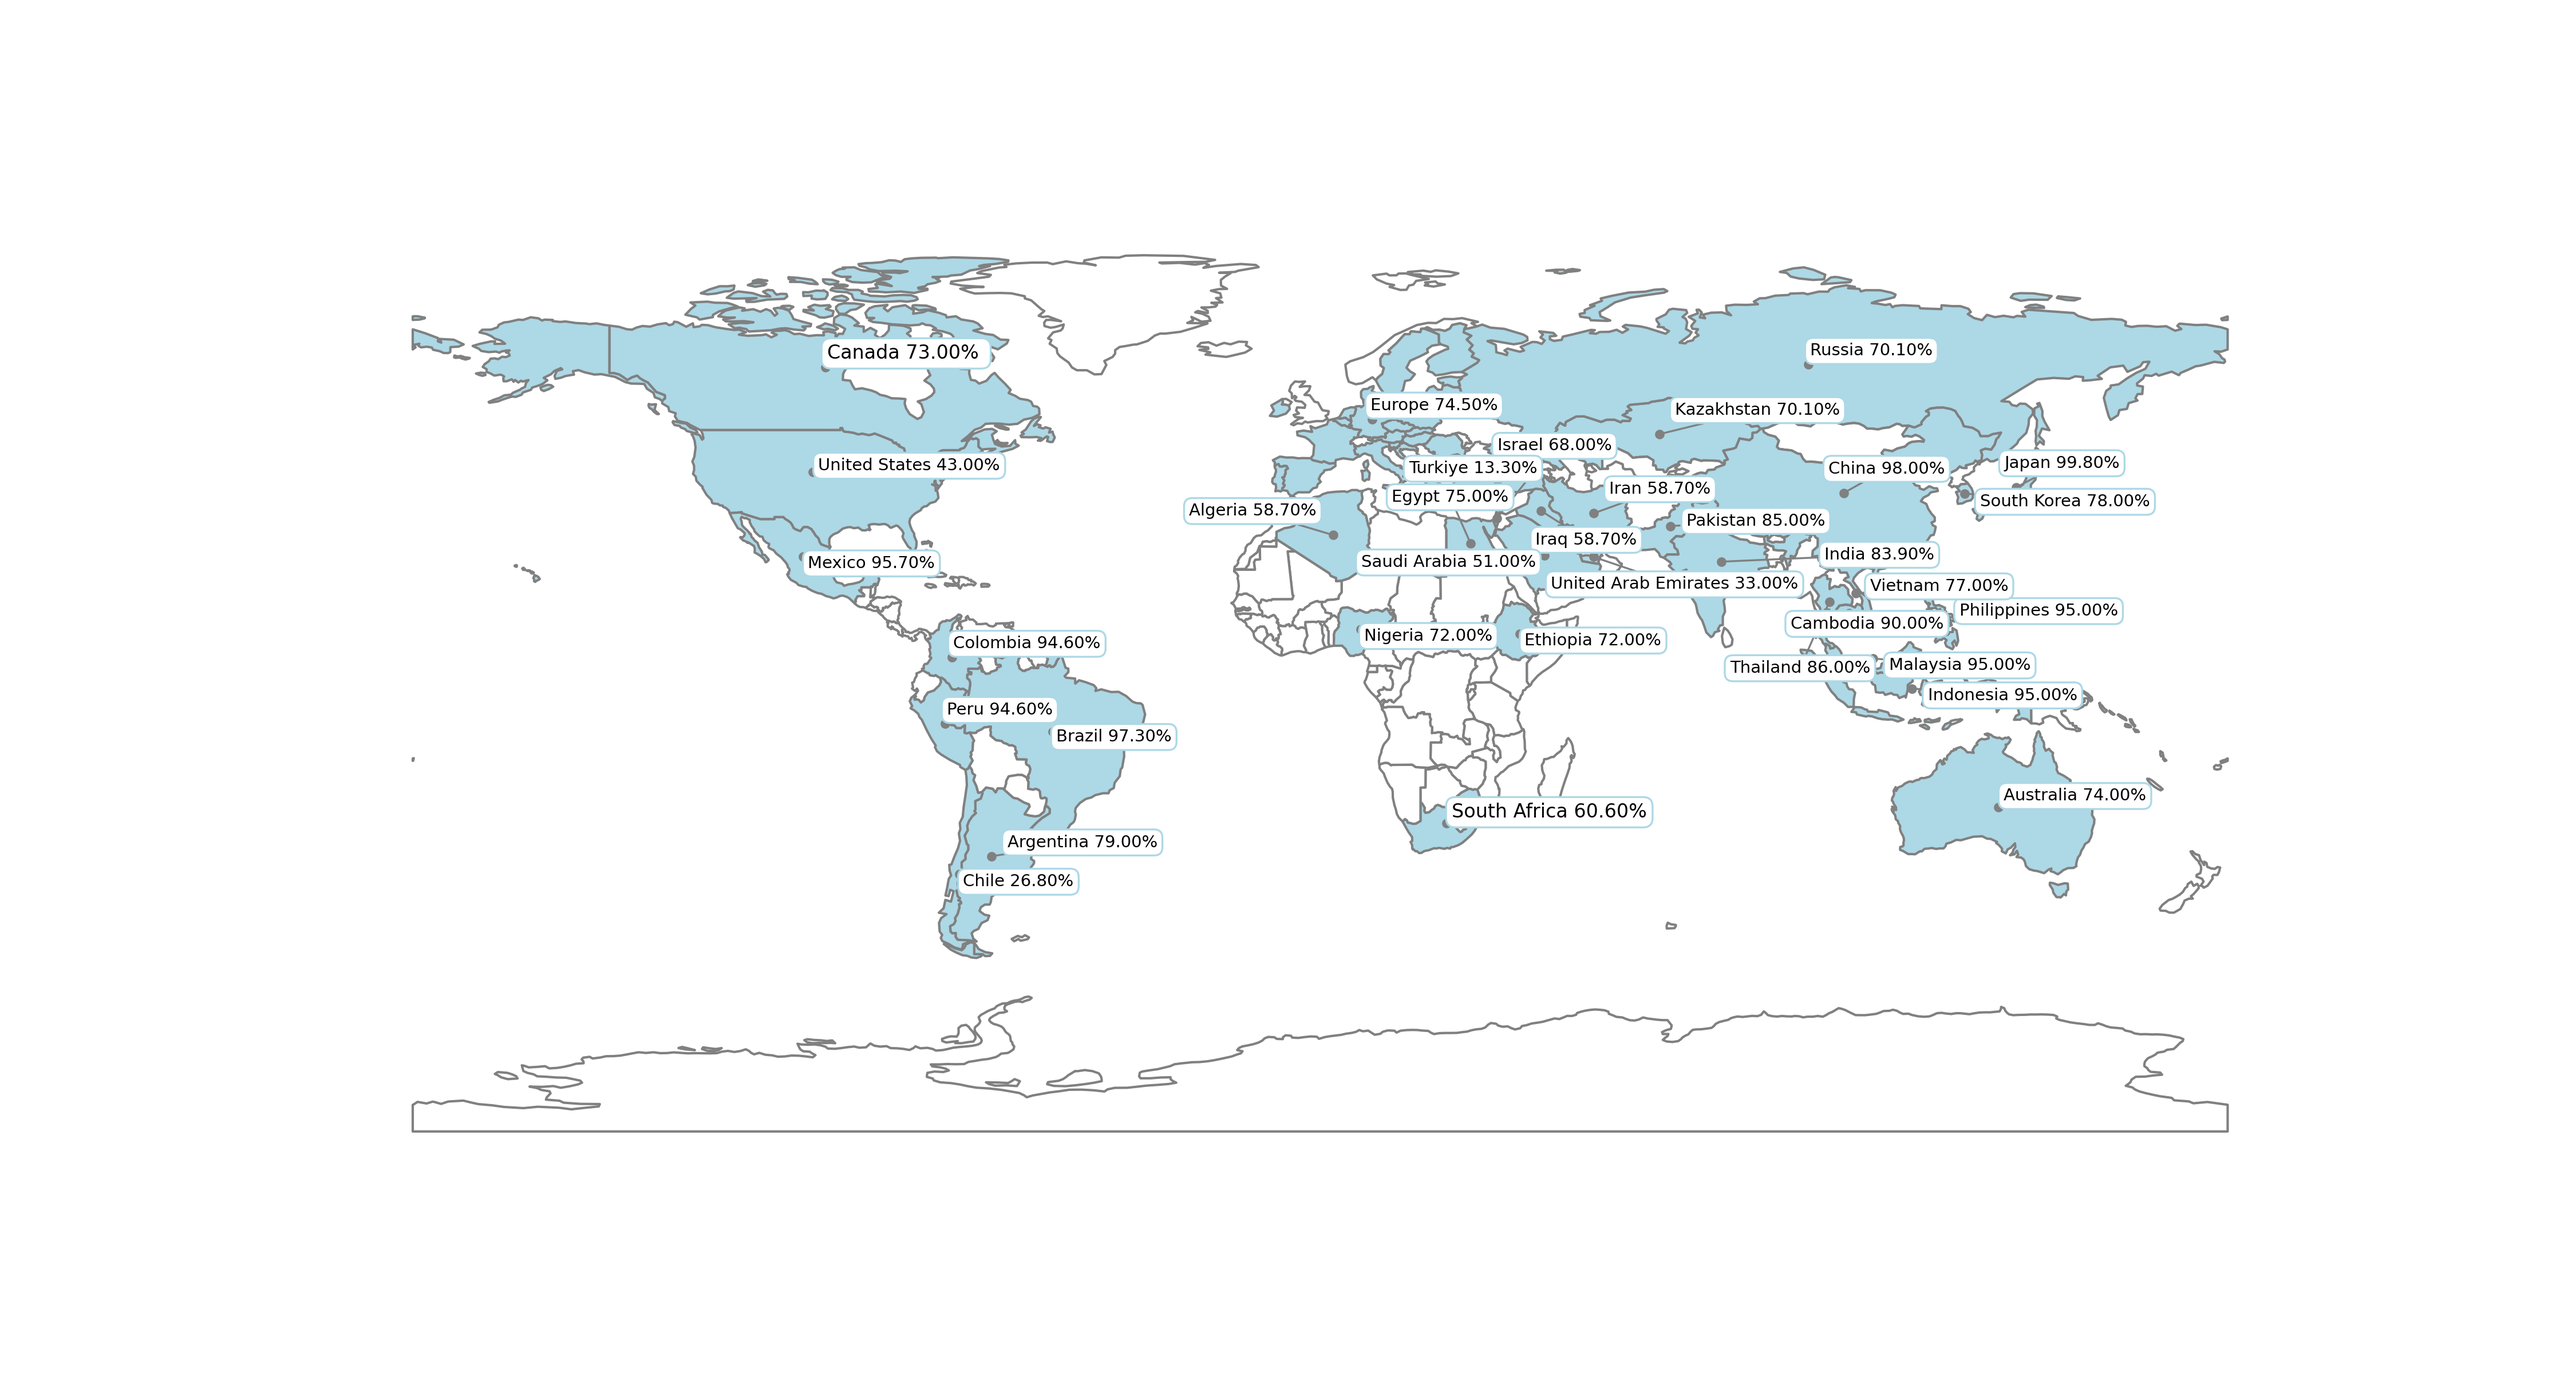
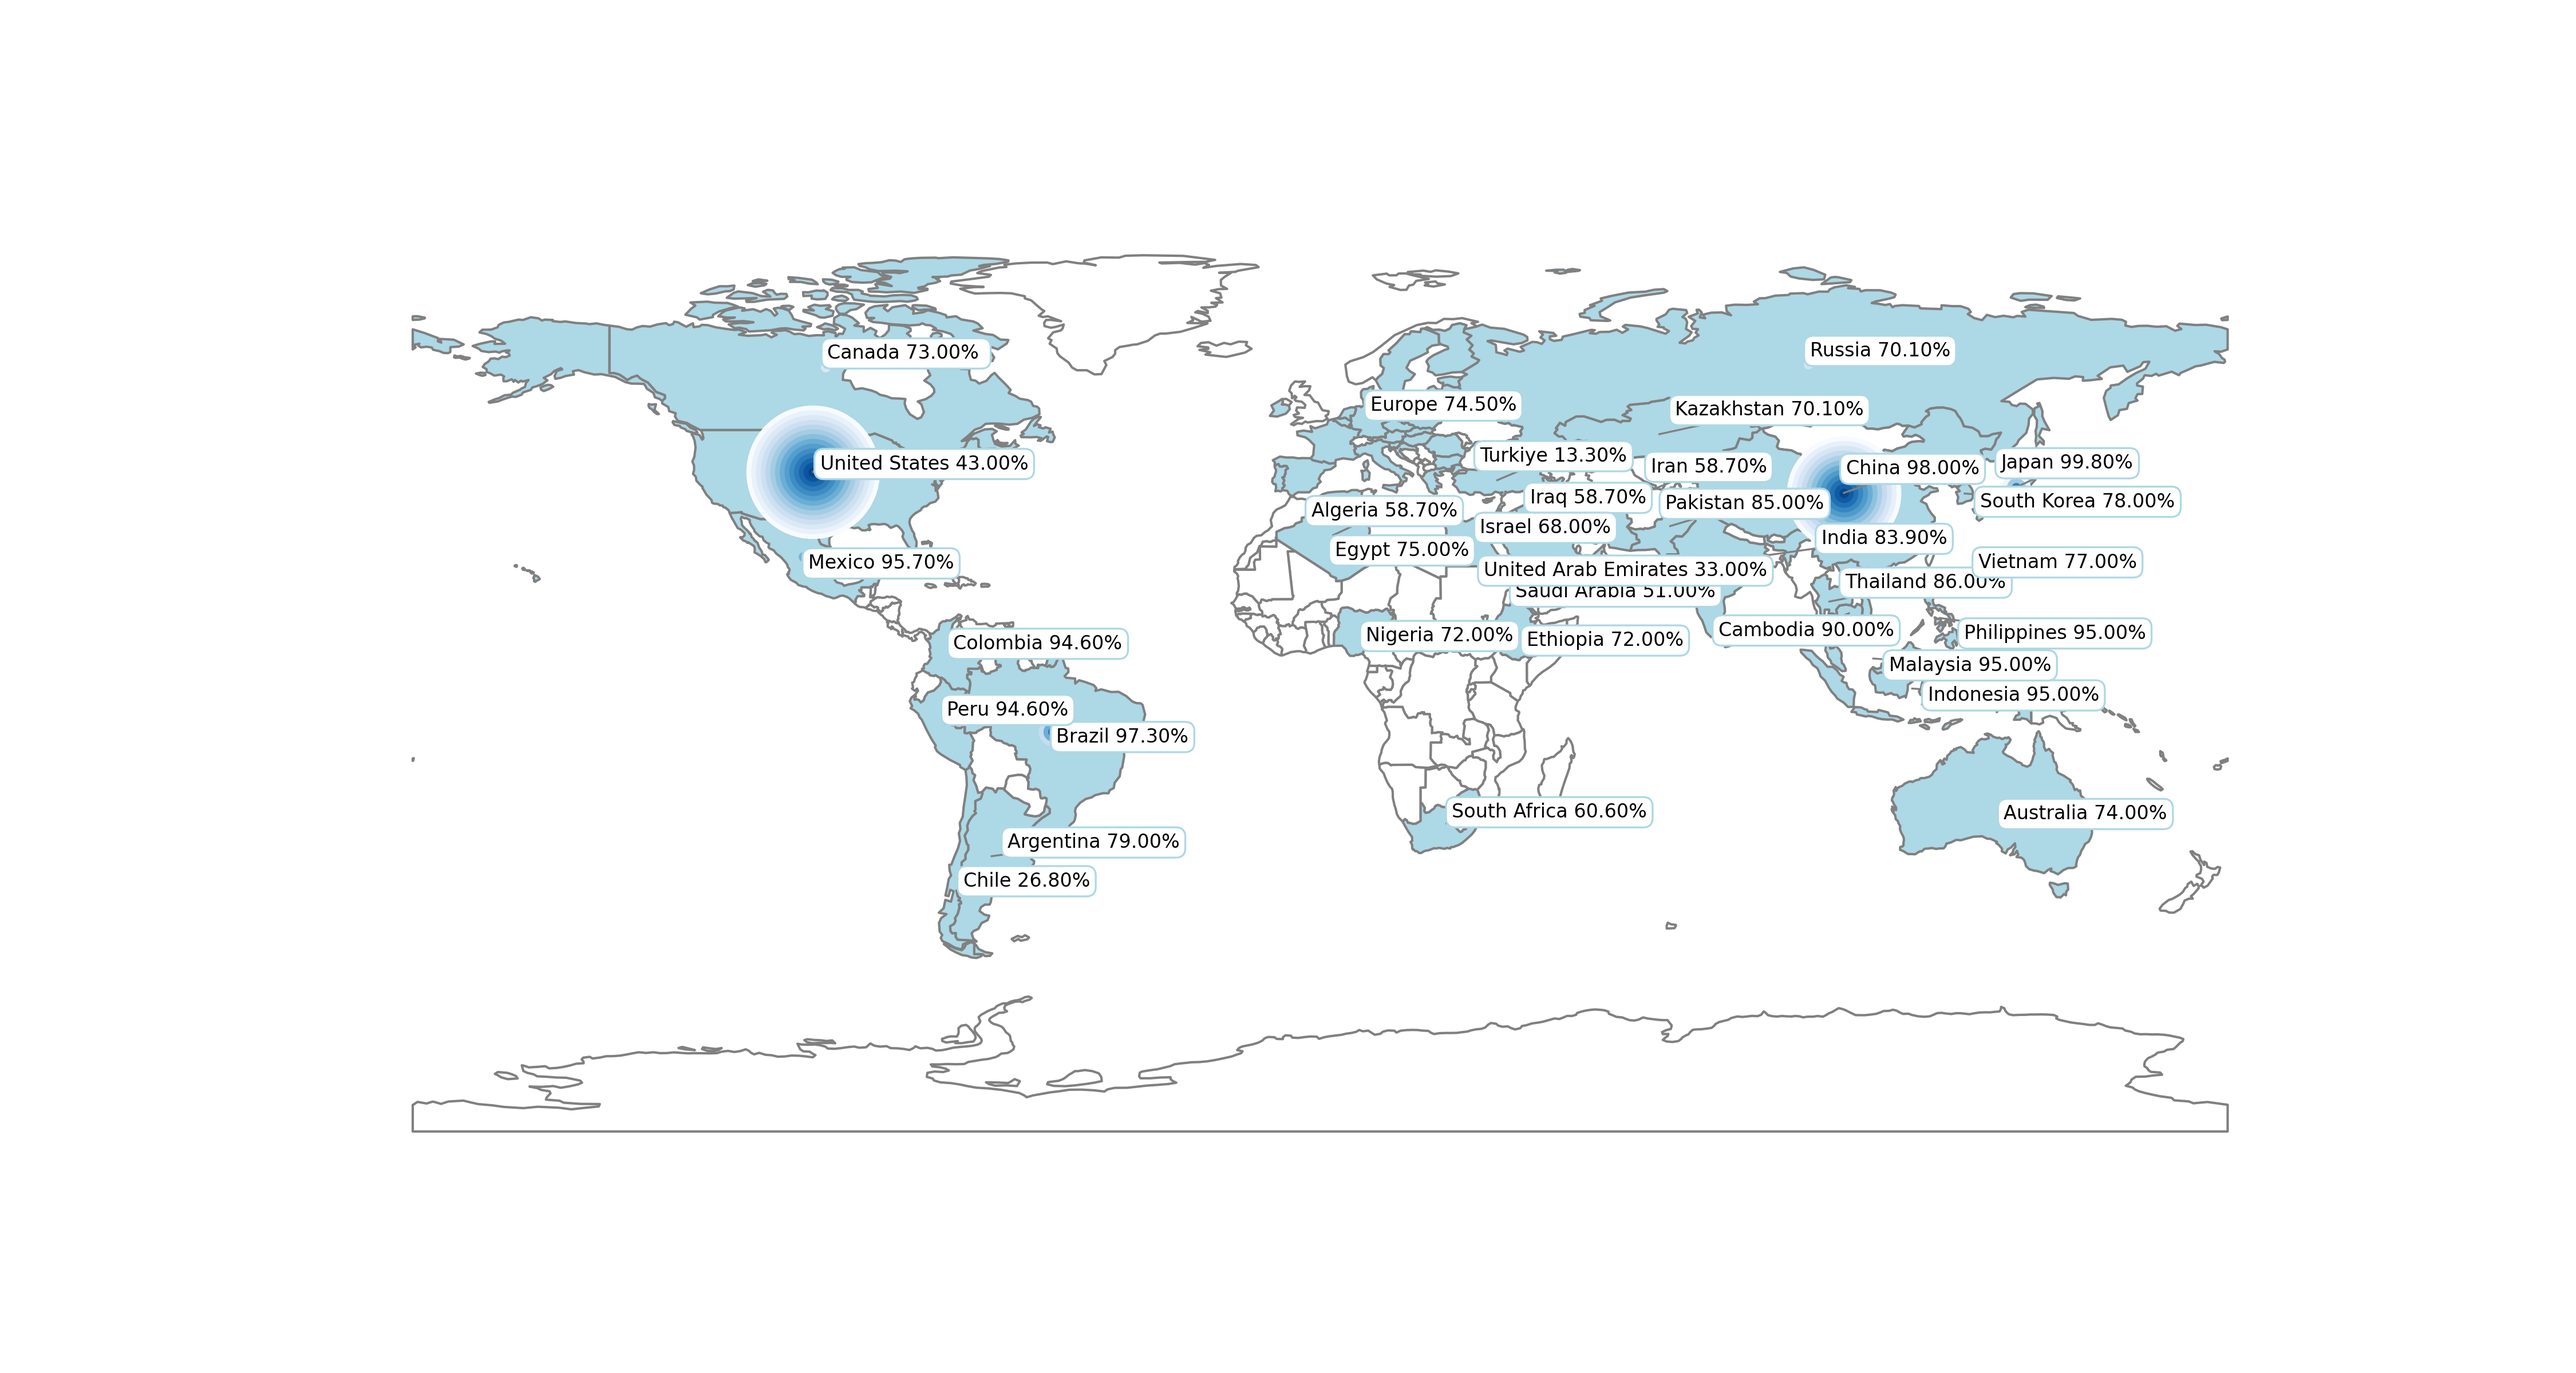
added new map genration code

diff --git a/map.py b/map.py
@@ -1,0 +1,77 @@
+import geopandas as gpd
+import matplotlib.pyplot as plt
+from adjustText import adjust_text
+import pandas as pd
+
+primaryColor = "lightblue"
+secondaryColor = "gray"
+textColor = "black"
+noDataColor = "white"
+fontSize = 20
+
+dataPath = "/workspaces/alumanimMapUsingGeopanda/data/Aluminium Can Recycling.csv"
+latLongPath = "/workspaces/alumanimMapUsingGeopanda/data/countries_latlon.csv"
+europPath = "/workspaces/alumanimMapUsingGeopanda/data/Aluminium Can Recycling Europe.csv"
+
+dfWorld = pd.read_csv(dataPath)
+dfLatLong = pd.read_csv(latLongPath).set_index("UN_A3")
+dfEurop = pd.read_csv(europPath)
+
+worldTitles = dfWorld.columns.to_list()
+
+countries = gpd.read_file("ne_110m_admin_0_countries.shp")
+countries["color"] = noDataColor
+
+# color europe countries
+for row in dfEurop.itertuples():
+    country = row[2]
+    match = countries[countries["NAME"] == country]
+    if match.empty:
+        print(f"No match found for: {country}")
+    else:
+        countries.loc[countries["NAME"] == country, "color"] = primaryColor
+
+points = []
+for row in dfWorld.itertuples():
+    year    = row[1]
+    country = row[2]
+    unCode  = row[3]
+    pom     = row[4]
+    rate    = row[5]
+
+    if unCode in dfLatLong.index:
+        latLongRow = dfLatLong.loc[unCode]
+        lat = latLongRow["lat"]
+        lon = latLongRow["lon"]
+        match = countries[countries["NAME"] == country]
+        if match.empty:
+            print(f"No match found for: {country}")
+        else:
+            countries.loc[countries["NAME"] == country, "color"] = primaryColor
+        points.append((lon, lat, f"{country}: {rate}"))
+
+fig, ax = plt.subplots(figsize=(40, 20))
+countries.plot(ax=ax, color=countries["color"], edgecolor=secondaryColor)
+
+if points:
+    texts = []
+    for lon, lat, label in points:
+        texts.append(ax.text(lon, lat, label, fontsize=fontSize,
+            bbox=dict(boxstyle="round,pad=0.3,rounding_size=0.5",
+                      facecolor="white", edgecolor=primaryColor, linewidth=0.8)))
+
+    adjust_text(texts,
+            expand_text=(fontSize * 6, fontSize * 6),
+            expand_points=(fontSize * 6, fontSize * 6),
+            force_text=(fontSize * 2, fontSize * 2),
+            force_points=(fontSize * 2, fontSize * 2),
+            max_move=10,
+            iterations=10000)
+
+    for text, (lon, lat, label) in zip(texts, points):
+        label_x, label_y = text.get_position()
+        ax.plot([lon, label_x], [lat, label_y], color=secondaryColor, lw=0.8)
+
+ax.axis("off")
+plt.savefig("test.png", dpi=300)
+print("Saved test.png!")

diff --git a/main.py b/main.py
@@ -5,6 +5,8 @@ import pandas as pd
 from scipy.spatial.distance import cdist
 import numpy as np
 import config
+import time;
+start = time.time()
 
 #BEFORE RUNNINF FOR THE FIRST TIME RUN THIS IN THE TERMINAL:
 #pip install geopandas matplotlib adjustText pandas scipy numpy
@@ -47,6 +49,19 @@ for UnCode in dfEurop["UN M49 Code"]:
 fig, ax = plt.subplots(figsize=(15, 8))
 countries.plot(ax=ax, color=countries["color"], edgecolor=secondaryColor)
 
+TONNES_PER_RING = 100000
+SIZE_PER_RING = 4
+cmap = plt.cm.Blues
+
+for UnCode, tonnes in zip(dfRecyceling["UN M49 Code"], dfRecyceling["POM (tonnes)"]):
+    row = dfLatLong[dfLatLong["UN_A3"] == UnCode]
+    if not row.empty:
+        lon = row["lon"].values[0]
+        lat = row["lat"].values[0]
+        print(tonnes/TONNES_PER_RING)
+        for i in range((int)(tonnes/TONNES_PER_RING), 0, -1):
+            ax.plot(lon, lat, "o", color=cmap(1-i/(tonnes/TONNES_PER_RING)), markersize=i * SIZE_PER_RING, markeredgewidth=0)
+
 points = []
 for Country, UnCode, RecyclingRate in zip(dfRecyceling["Country"], dfRecyceling["UN M49 Code"], dfRecyceling["Recycled Rate"]):
     if(Country != "Europe"):
@@ -68,9 +83,7 @@ if len(points) > 0:
 
     texts = []
     for i, (lon, lat, label) in enumerate(points):
-        nearby = np.sum(distances[i] < distance) - 1
-        fontsize = max(minFontsize, maxFontsize - nearby)
-        ax.plot(lon, lat, "o", color=secondaryColor, markersize=3)
+        fontsize = 8
         texts.append(ax.text(lon, lat, label, fontsize=fontsize,
             bbox=dict(boxstyle="round,pad=0.3,rounding_size=0.5", facecolor="white", edgecolor= primaryColor, linewidth=0.8)))
 
@@ -84,3 +97,5 @@ if len(points) > 0:
 ax.axis("off")
 plt.savefig("map.png", dpi=300)
 print("Saved map.png!")
+end = time.time()
+print(f"it took {end-start} seconds")
